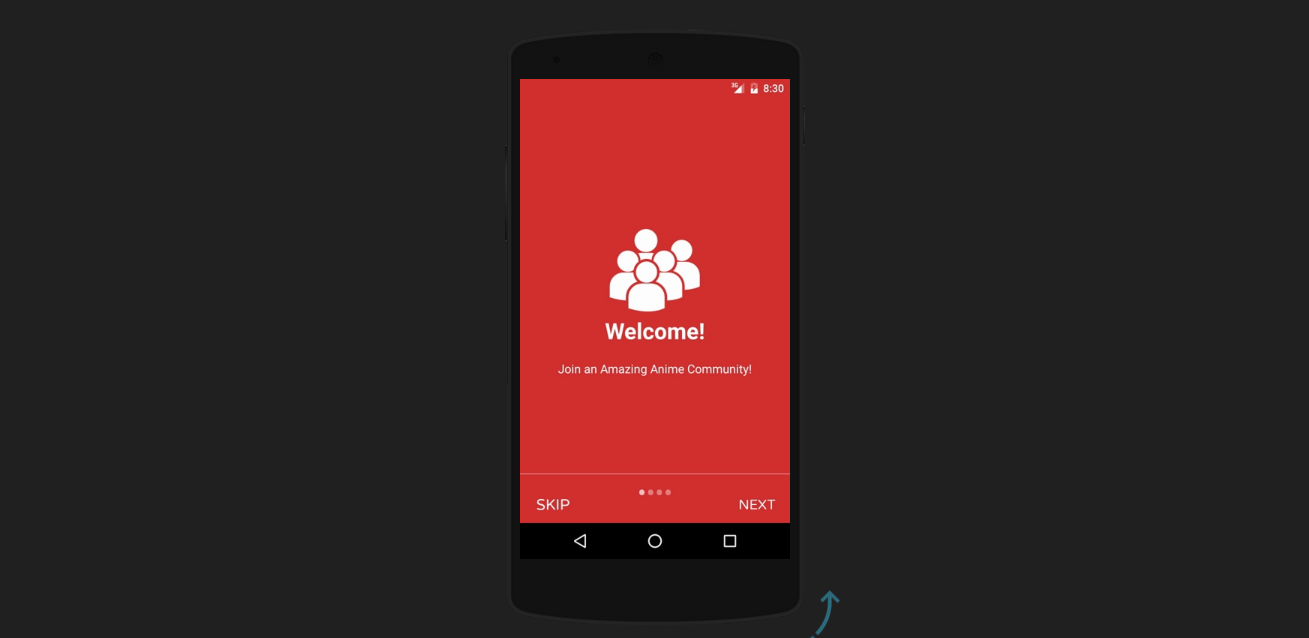
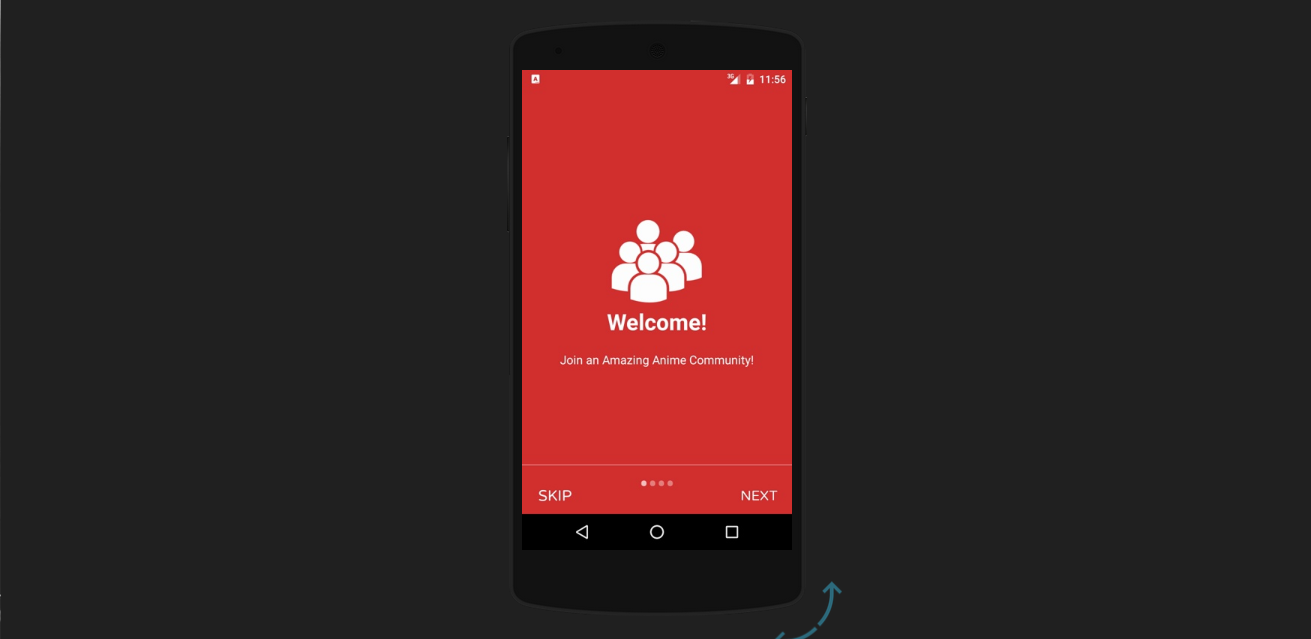
updated project section

diff --git a/index.html b/index.html
@@ -102,13 +102,13 @@
             
             <div class="section group">
 					<div class="project3 col area_1_of_2">
-					    <img src="images/usagi.png">
+					    <img src="images/mangaforum.png">
 					    
-					    <h1>USAGI CREATIVE STUDIO</h1>
+					    <h1>MANGA FORUM</h1>
 					    <hr class="line">
-					   <h3>A design studio keen on creating beautiful brands to deliver amazing experiences to their clients</h3>
+					   <h3>An android app for manga/anime fans in Kenya to communicate and share new Animes and reviews.</h3>
 					   
-					   <a class="btn btn-alt" href="https://usagicreativestudio.bitballoon.com" target="_blank">VIEW WEBSITE</a>
+					   <a class="btn btn-alt" href="https://appetize.io/app/006b1qb3pzd6mg4zwut9fnuu38?device=nexus5&scale=75&orientation=portrait&osVersion=7.0" target="_blank">VIEW WEBSITE</a>
 					</div>
 					
 					<div class="project4 col area_1_of_2">
